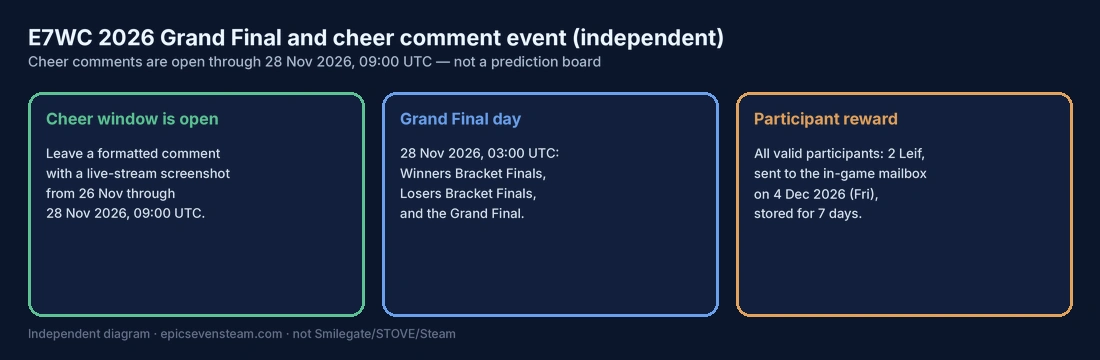
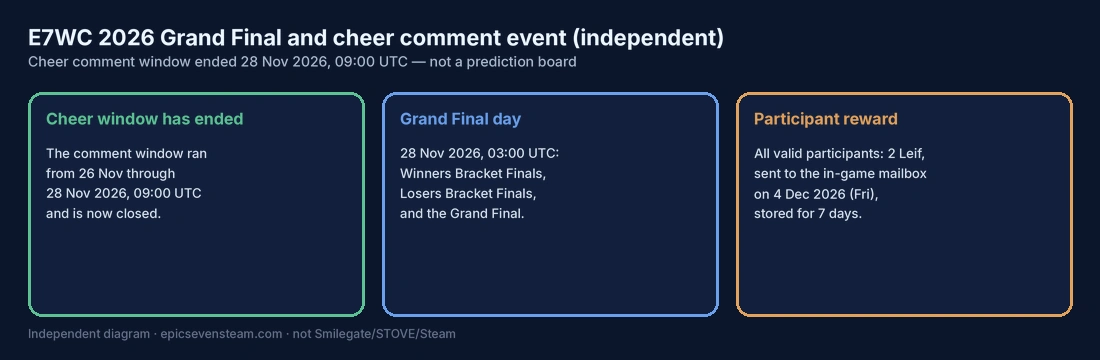
content: switch E7WC 2026 cheer section to ended state
The cheer comment window ended 28 Nov 2026, 09:00 UTC. Keep the 2 Leif / 4 Dec mailbox reminder. Leave Title, H1, and canonical unchanged.

diff --git a/app/e7wc-2026-grand-final/page.tsx b/app/e7wc-2026-grand-final/page.tsx
@@ -10,7 +10,7 @@ const PATH = '/e7wc-2026-grand-final/';
 const TITLE = 'E7WC 2026 Grand Final Time & Cheer Comment Event';
 const H1 = 'E7WC 2026 Grand Final and cheer comment event';
 const DESCRIPTION =
-  'E7WC 2026 Grand Final starts 28 Nov 2026, 03:00 UTC. Official 11/27 notice lists YouTube livestreams (KR/EN/TW/JP). The cheer comment event is open 26–28 Nov 2026, 09:00 UTC: comment format, 2 Leif for all participants on 4 Dec. Independent guide — verify on STOVE.';
+  'E7WC 2026 Grand Final: 28 Nov 2026, 03:00 UTC. Official 11/27 notice lists YouTube livestreams (KR/EN/TW/JP). The cheer comment event ended 28 Nov 2026, 09:00 UTC. Eligible participants receive 2 Leif in the in-game mailbox on 4 Dec, stored for 7 days. Independent guide — verify on STOVE.';
 
 export const metadata: Metadata = pageMetadata({
   title: TITLE,
@@ -49,14 +49,13 @@ export default function Page() {
         the 11/27 match and broadcast notice.
       </p>
       <p className="quick-answer">
-        <strong>The cheer comment event is open now. </strong>
-        Leave a formatted comment with a live-stream screenshot from 26 Nov
-        through 28 Nov 2026, 09:00 UTC. The Grand Final broadcast day starts
-        at 28 Nov 2026, 03:00 UTC and also includes the Winners Bracket Finals
-        and Losers Bracket Finals. Official 11/27 livestreams are on YouTube
-        (KR/EN/TW/JP). After 28 Nov 2026, 09:00 UTC this cheer section should
-        be switched to past tense; the 4 Dec reward-delivery reminder stays
-        until official word says otherwise.
+        <strong>The cheer comment event has ended. </strong>
+        The window ran from 26 Nov through 28 Nov 2026, 09:00 UTC. The Grand
+        Final broadcast day started at 28 Nov 2026, 03:00 UTC and also includes
+        the Winners Bracket Finals and Losers Bracket Finals. Official 11/27
+        livestreams are on YouTube (KR/EN/TW/JP). Official rewards of 2 Leif
+        for all eligible participants will be sent to the in-game mailbox on
+        2026/12/4 (Fri). Storage period: 7 days.
       </p>
       <nav className="anchor-nav" aria-label="On this page">
         <a href="#schedule">Schedule</a>
@@ -71,7 +70,7 @@ export default function Page() {
         src="/images/diagram-e7wc-grand-final.webp"
         width={1100}
         height={360}
-        alt="Self-drawn independent diagram: the E7WC 2026 cheer comment event is open through 28 Nov 2026, 09:00 UTC; Grand Final day starts 28 Nov 2026, 03:00 UTC with Winners and Losers Bracket Finals plus the Grand Final; all valid participants receive 2 Leif on 4 Dec 2026, stored for 7 days. Not official Smilegate art."
+        alt="Self-drawn independent diagram: the E7WC 2026 cheer comment event ran through 28 Nov 2026, 09:00 UTC and is now closed; Grand Final day starts 28 Nov 2026, 03:00 UTC with Winners and Losers Bracket Finals plus the Grand Final; all valid participants receive 2 Leif on 4 Dec 2026, stored for 7 days. Not official Smilegate art."
         credit="Independent diagram · epicsevensteam.com · not Smilegate/STOVE/Steam"
       />
 
@@ -80,7 +79,7 @@ export default function Page() {
         <ul>
           <li>
             Cheer comment event: 26 Nov 2026 through 28 Nov 2026, 09:00 UTC
-            (open now).
+            (ended).
           </li>
           <li>
             Grand Final day: 28 Nov 2026, 03:00 UTC — Winners Bracket Finals,
@@ -104,9 +103,11 @@ export default function Page() {
       <section id="cheer" aria-labelledby="cheer-title">
         <h2 id="cheer-title">Cheer comment event</h2>
         <p>
-          Leave a comment on the official cheer event post, following the format
-          below, with a cheering message for the players and a screenshot proof
-          of watching the live stream.
+          The official cheer comment event window ran from 26 Nov through 28 Nov
+          2026, 09:00 UTC, and is now closed. During the event, participants were
+          asked to leave a comment on the official cheer event post, following
+          the format below, with a cheering message for the players and a
+          screenshot proof of watching the live stream.
         </p>
         <p>
           <strong>Format: </strong>
@@ -227,10 +228,10 @@ export default function Page() {
         <ul>
           <li>
             <a href="/updates/">Updates</a> — living log with a card for this
-            open cheer window.
+            ended cheer window.
           </li>
           <li>
-            <a href="/quests/">Quests</a> — current event routes, including this
+            <a href="/quests/">Quests</a> — event routes, including this closed
             comment event.
           </li>
           <li>

diff --git a/scripts/generate-tool-images.py b/scripts/generate-tool-images.py
@@ -587,12 +587,12 @@ def diagram_e7wc_grand_final() -> Image.Image:
     footer_and_title(
         im,
         "E7WC 2026 Grand Final and cheer comment event (independent)",
-        "Cheer comments are open through 28 Nov 2026, 09:00 UTC — not a prediction board",
+        "Cheer comment window ended 28 Nov 2026, 09:00 UTC — not a prediction board",
     )
     three_cards(
         im,
         [
-            (DIA_GREEN, "Cheer window is open", "Leave a formatted comment\nwith a live-stream screenshot\nfrom 26 Nov through\n28 Nov 2026, 09:00 UTC."),
+            (DIA_GREEN, "Cheer window has ended", "The comment window ran\nfrom 26 Nov through\n28 Nov 2026, 09:00 UTC\nand is now closed."),
             (DIA_BLUE, "Grand Final day", "28 Nov 2026, 03:00 UTC:\nWinners Bracket Finals,\nLosers Bracket Finals,\nand the Grand Final."),
             (DIA_ORANGE, "Participant reward", "All valid participants: 2 Leif,\nsent to the in-game mailbox\non 4 Dec 2026 (Fri),\nstored for 7 days."),
         ],
